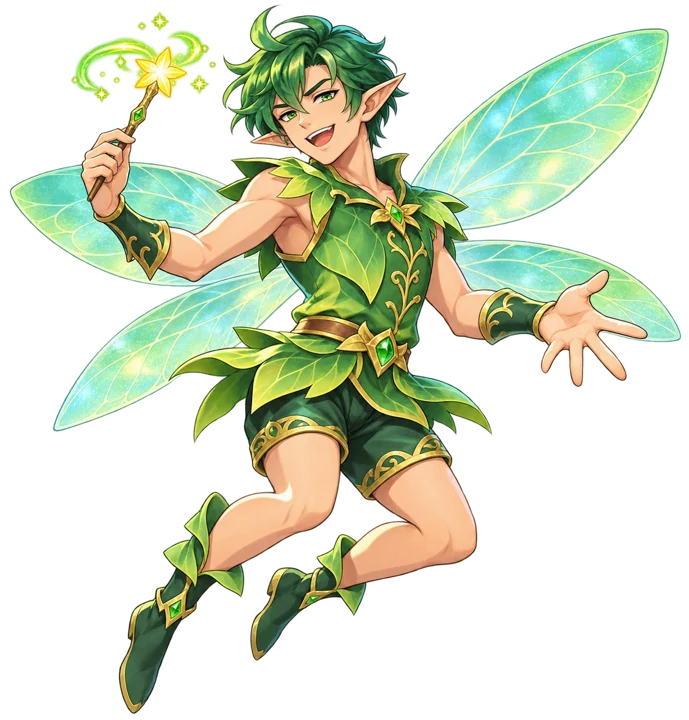
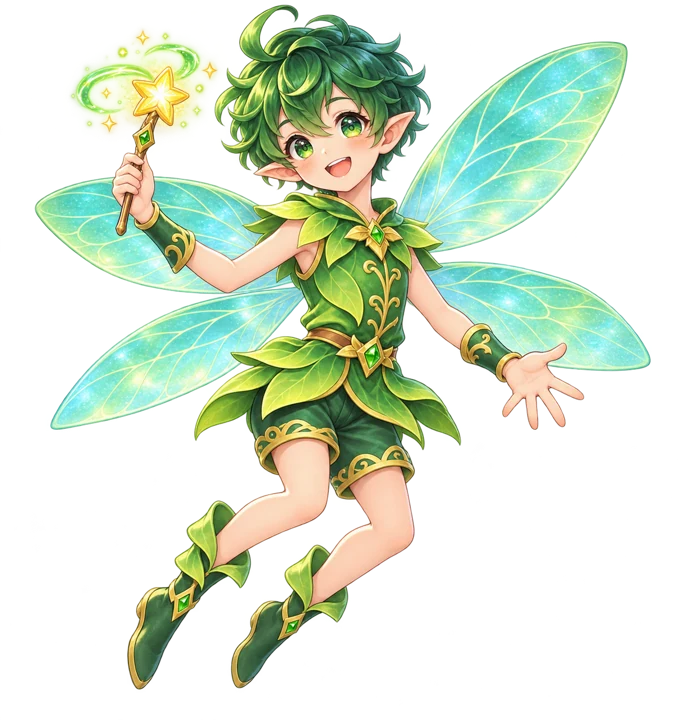
Give male pixie a softer, cuter boyish design

diff --git a/assets/visual/README.md b/assets/visual/README.md
@@ -19,3 +19,6 @@ Only the cave slime received a new enemy illustration in this first visual pass.
 ## v0.5 ピクシー
 - `pixie.webp`: 透明背景の男性ピクシー。緑の葉衣装・短髪・4枚の羽・光の杖。組込み画像生成で作成し、縦横720px以内に最適化。
 - 制作指示: cheerful hand-painted anime fantasy; male adult pixie, mischievous smile, leaf tunic, shorts, boots, four translucent wings, glowing wand; fully clothed; transparent; no text.
+
+### ピクシー改訂
+丸顔、大きな緑の瞳、赤い頬、ふわっとした短髪、細身の体格へ改訂。緑の葉衣装・4枚の羽・杖を維持。
